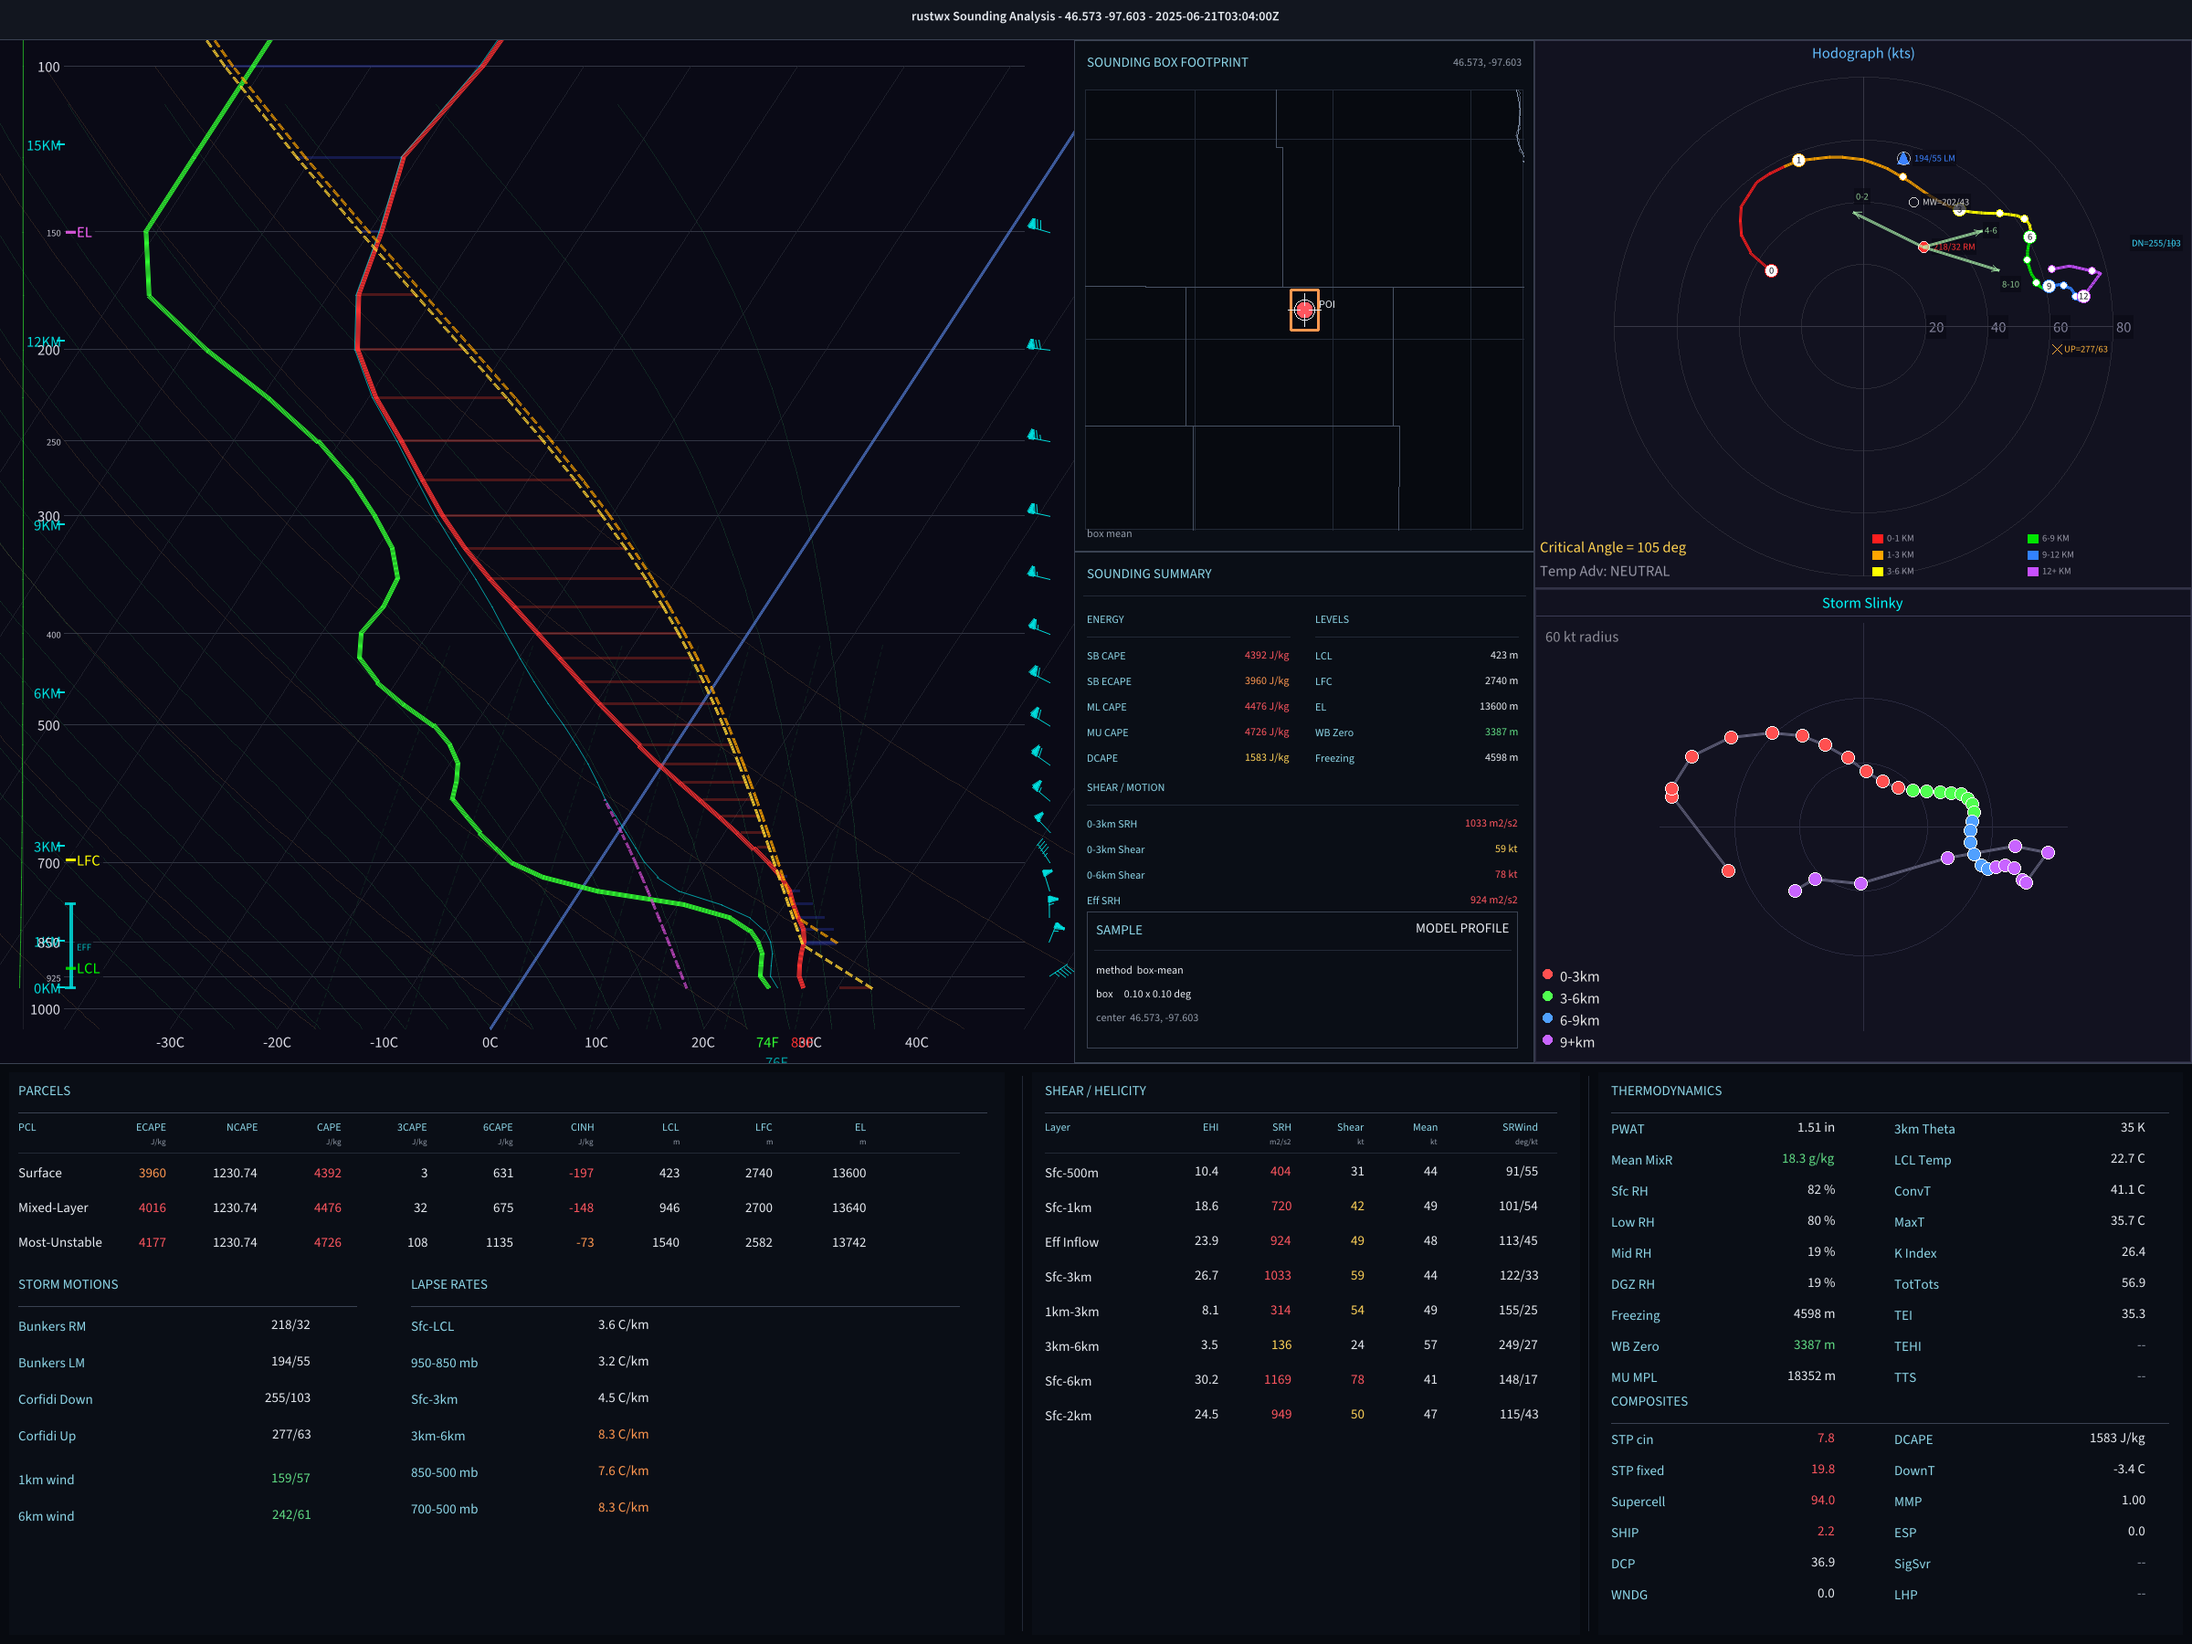
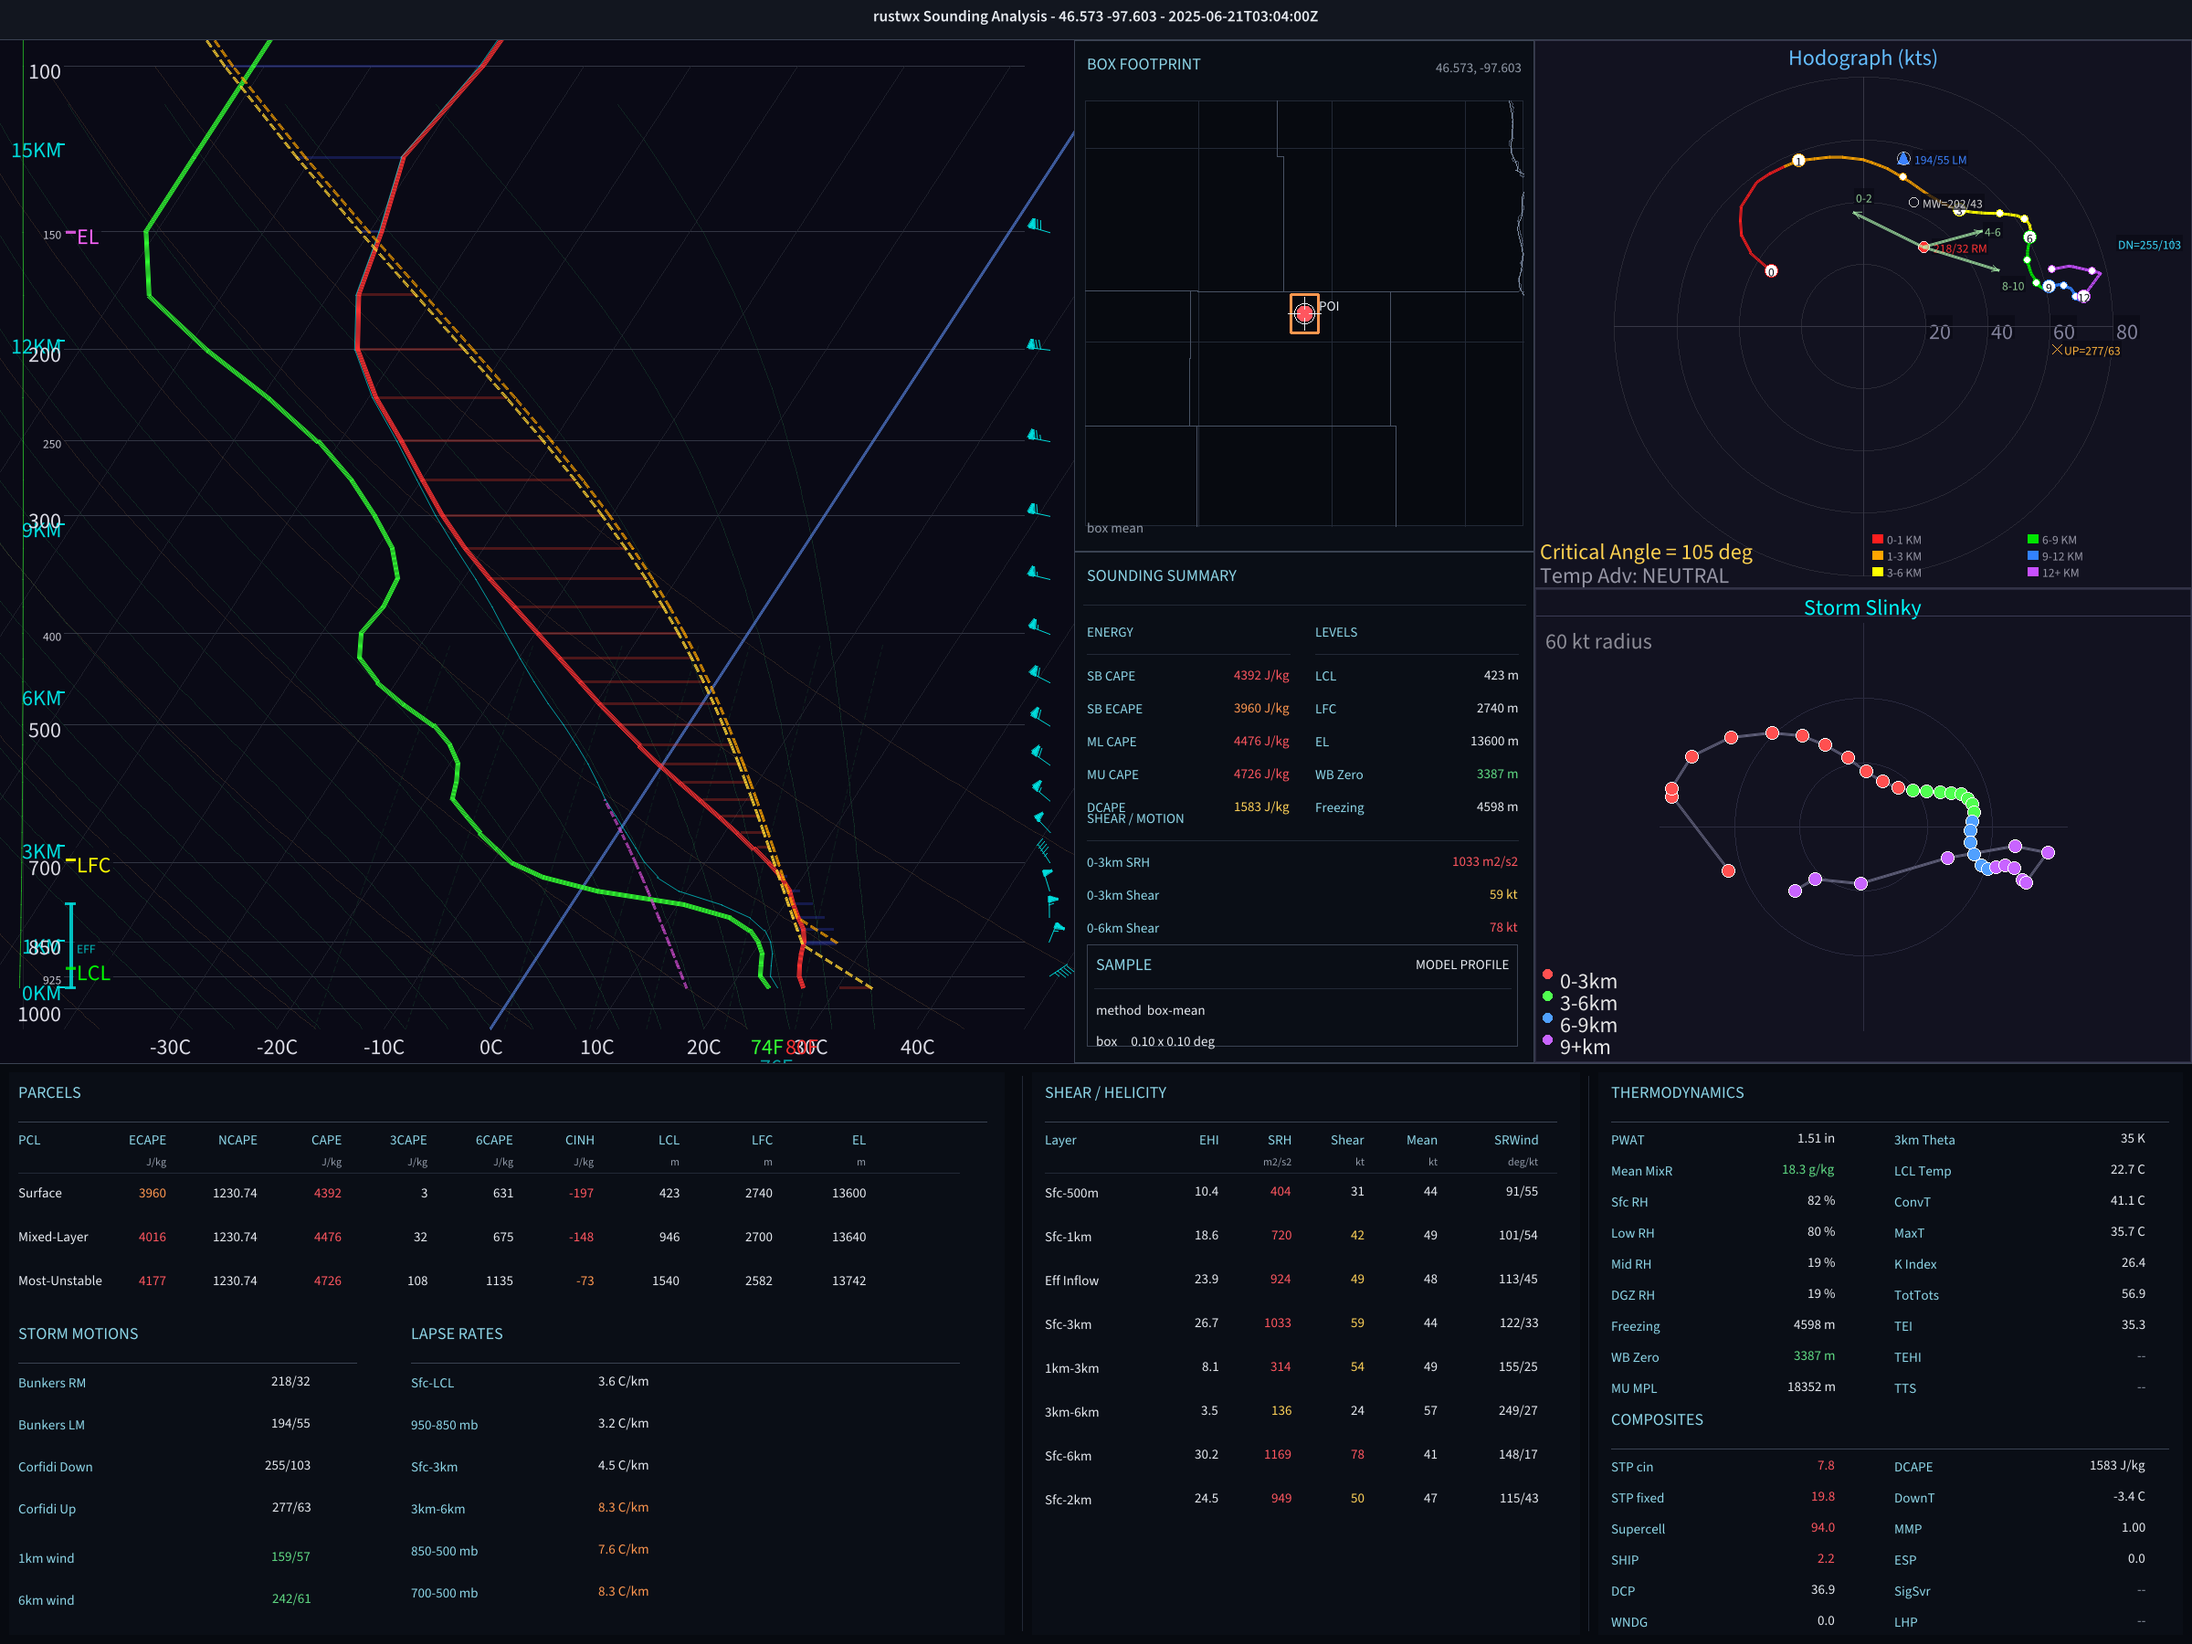
Increase sounding label readability

diff --git a/src/render/skewt.rs b/src/render/skewt.rs
@@ -867,8 +867,8 @@ fn draw_cape_cin_fills(
 fn draw_wind_barbs(c: &mut Canvas, prof: &Profile, plot_w: f64, plot_h: f64, skewt_w: u32) {
     let bx = (skewt_w as f64 - MARGIN_RIGHT / 2.0) as f64;
     let barb_pressures = [
-        1000.0, 925.0, 850.0, 800.0, 750.0, 700.0, 650.0, 600.0, 550.0, 500.0, 450.0, 400.0,
-        350.0, 300.0, 250.0, 200.0, 150.0,
+        1000.0, 925.0, 850.0, 800.0, 750.0, 700.0, 650.0, 600.0, 550.0, 500.0, 450.0, 400.0, 350.0,
+        300.0, 250.0, 200.0, 150.0,
     ];
 
     for &p in &barb_pressures {

diff --git a/src/render/canvas.rs b/src/render/canvas.rs
@@ -988,10 +988,10 @@ fn sounding_font() -> Option<&'static Font<'static>> {
 
 fn font_px(scale_tag: i32) -> f32 {
     match scale_tag.max(1) {
-        1 => 14.0,
-        2 => 22.0,
-        3 => 31.0,
-        value => 14.0 + (value as f32 - 1.0) * 8.0,
+        1 => 18.0,
+        2 => 32.0,
+        3 => 46.0,
+        value => 18.0 + (value as f32 - 1.0) * 14.0,
     }
 }
 
